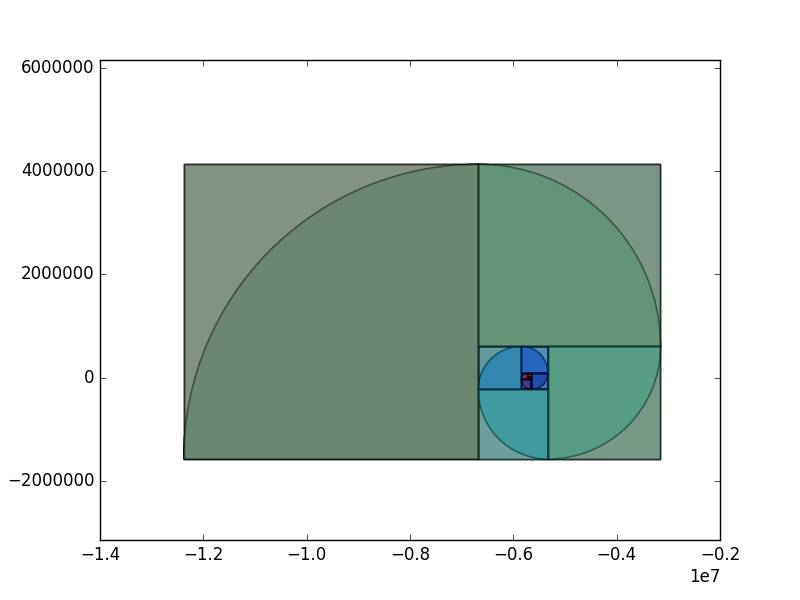
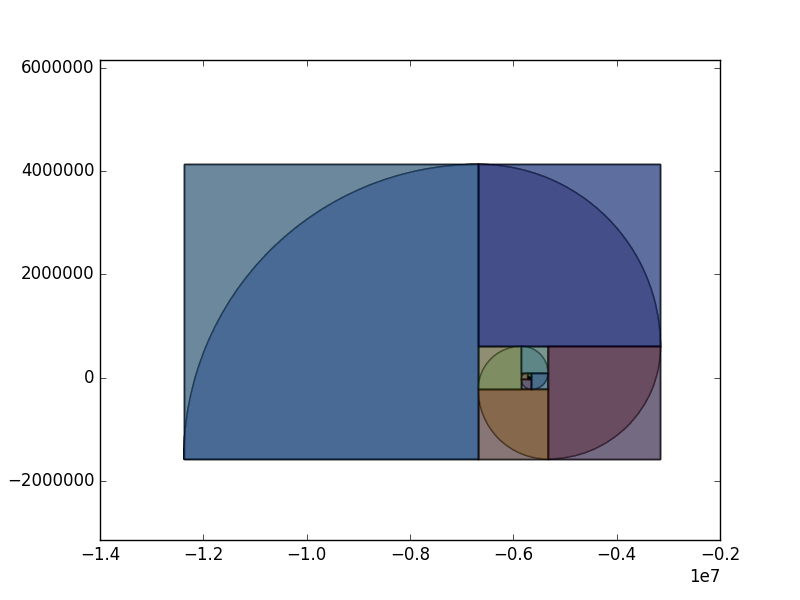
fibonacci readme

Changed region(s): [[0.2188, 0.27, 0.8438, 0.78]]

diff --git a/vizFibonacci.py b/vizFibonacci.py
@@ -66,7 +66,7 @@ def vizualizeFibonacciSpiral(N=15):
     Ncolors = 10; colors=[]
     for j in range(N):
         colors.append((j % Ncolors) * 5) # choose a color
-        collection = PatchCollection(spirals, cmap=matplotlib.cm.jet, alpha=0.05)
+        collection = PatchCollection(spirals, cmap=matplotlib.cm.jet, alpha=0.06)
         collection.set_array(np.array(colors))
         # add the spiral to collection
         ax.add_collection(collection)

diff --git a/README.md b/README.md
@@ -19,9 +19,9 @@ They are spectacular and beautiful; aparently you can listen to them too: http:/
 - Script: [vizFibonacci.py](vizFibonacci.py)
 - Sequence: 0, 1, 1, 2, 3, 5, 8, 13, 21, 34, 55, 89, 144, 233, 377, ...
 
-| Golden ration spiral (N = 300) | Fibonacci spiral (N = 35) 
+|  Fibonacci spiral (N = 35)  | Golden-ratio spiral (N = 300) 
 |:--------------------|:--------------------
-|   ![det-20c](/data/300fibo.png) |  ![det-40c](/data/35fiborect.png) | 
+|   ![det-40c](/data/35fiborect.png)  | ![det-20c](/data/300fibo.png) | 
 
 #### References
 - https://oeis.org/A000045, https://en.wikipedia.org/wiki/Fibonacci_number
